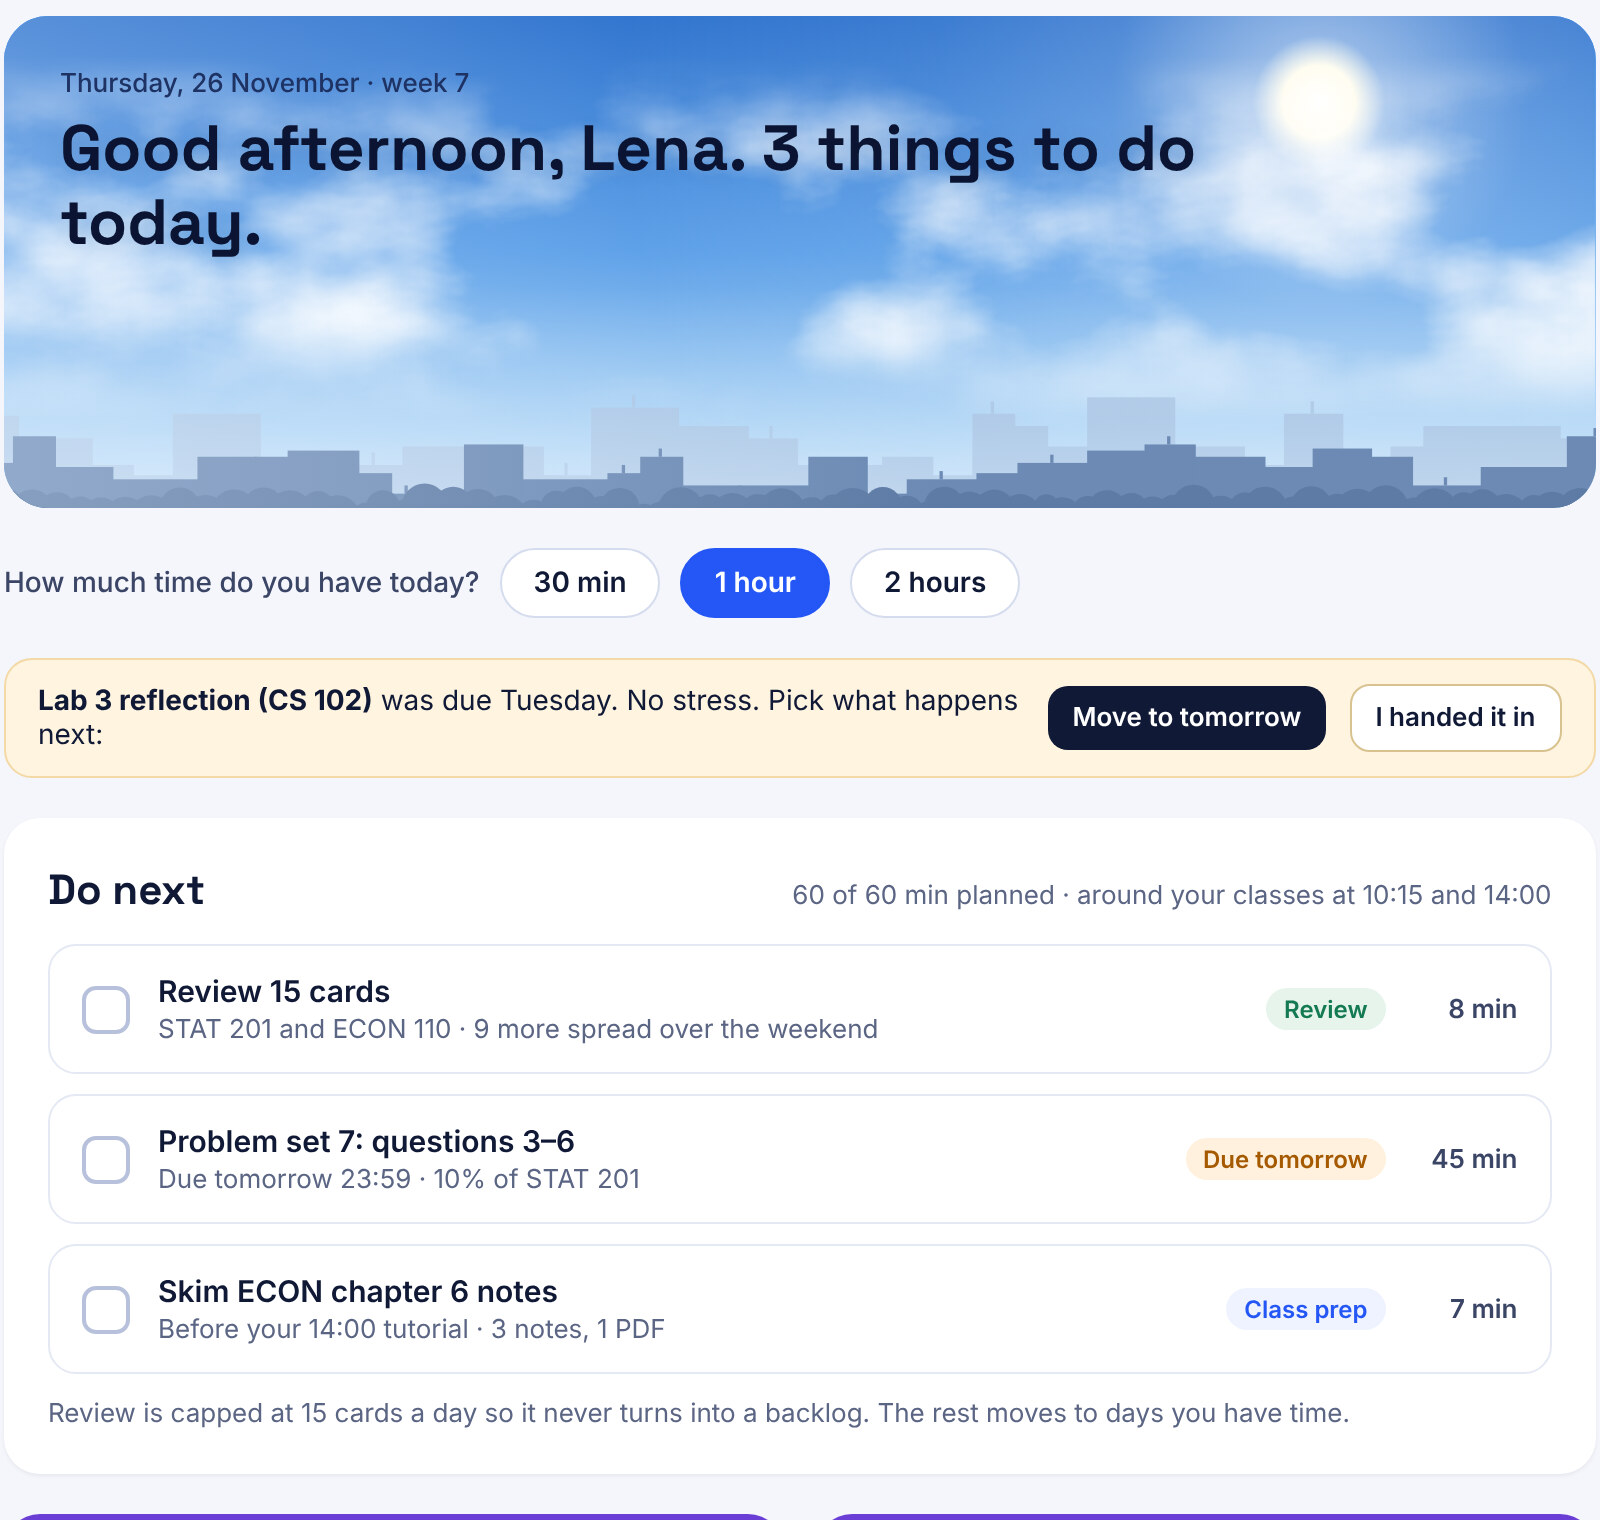
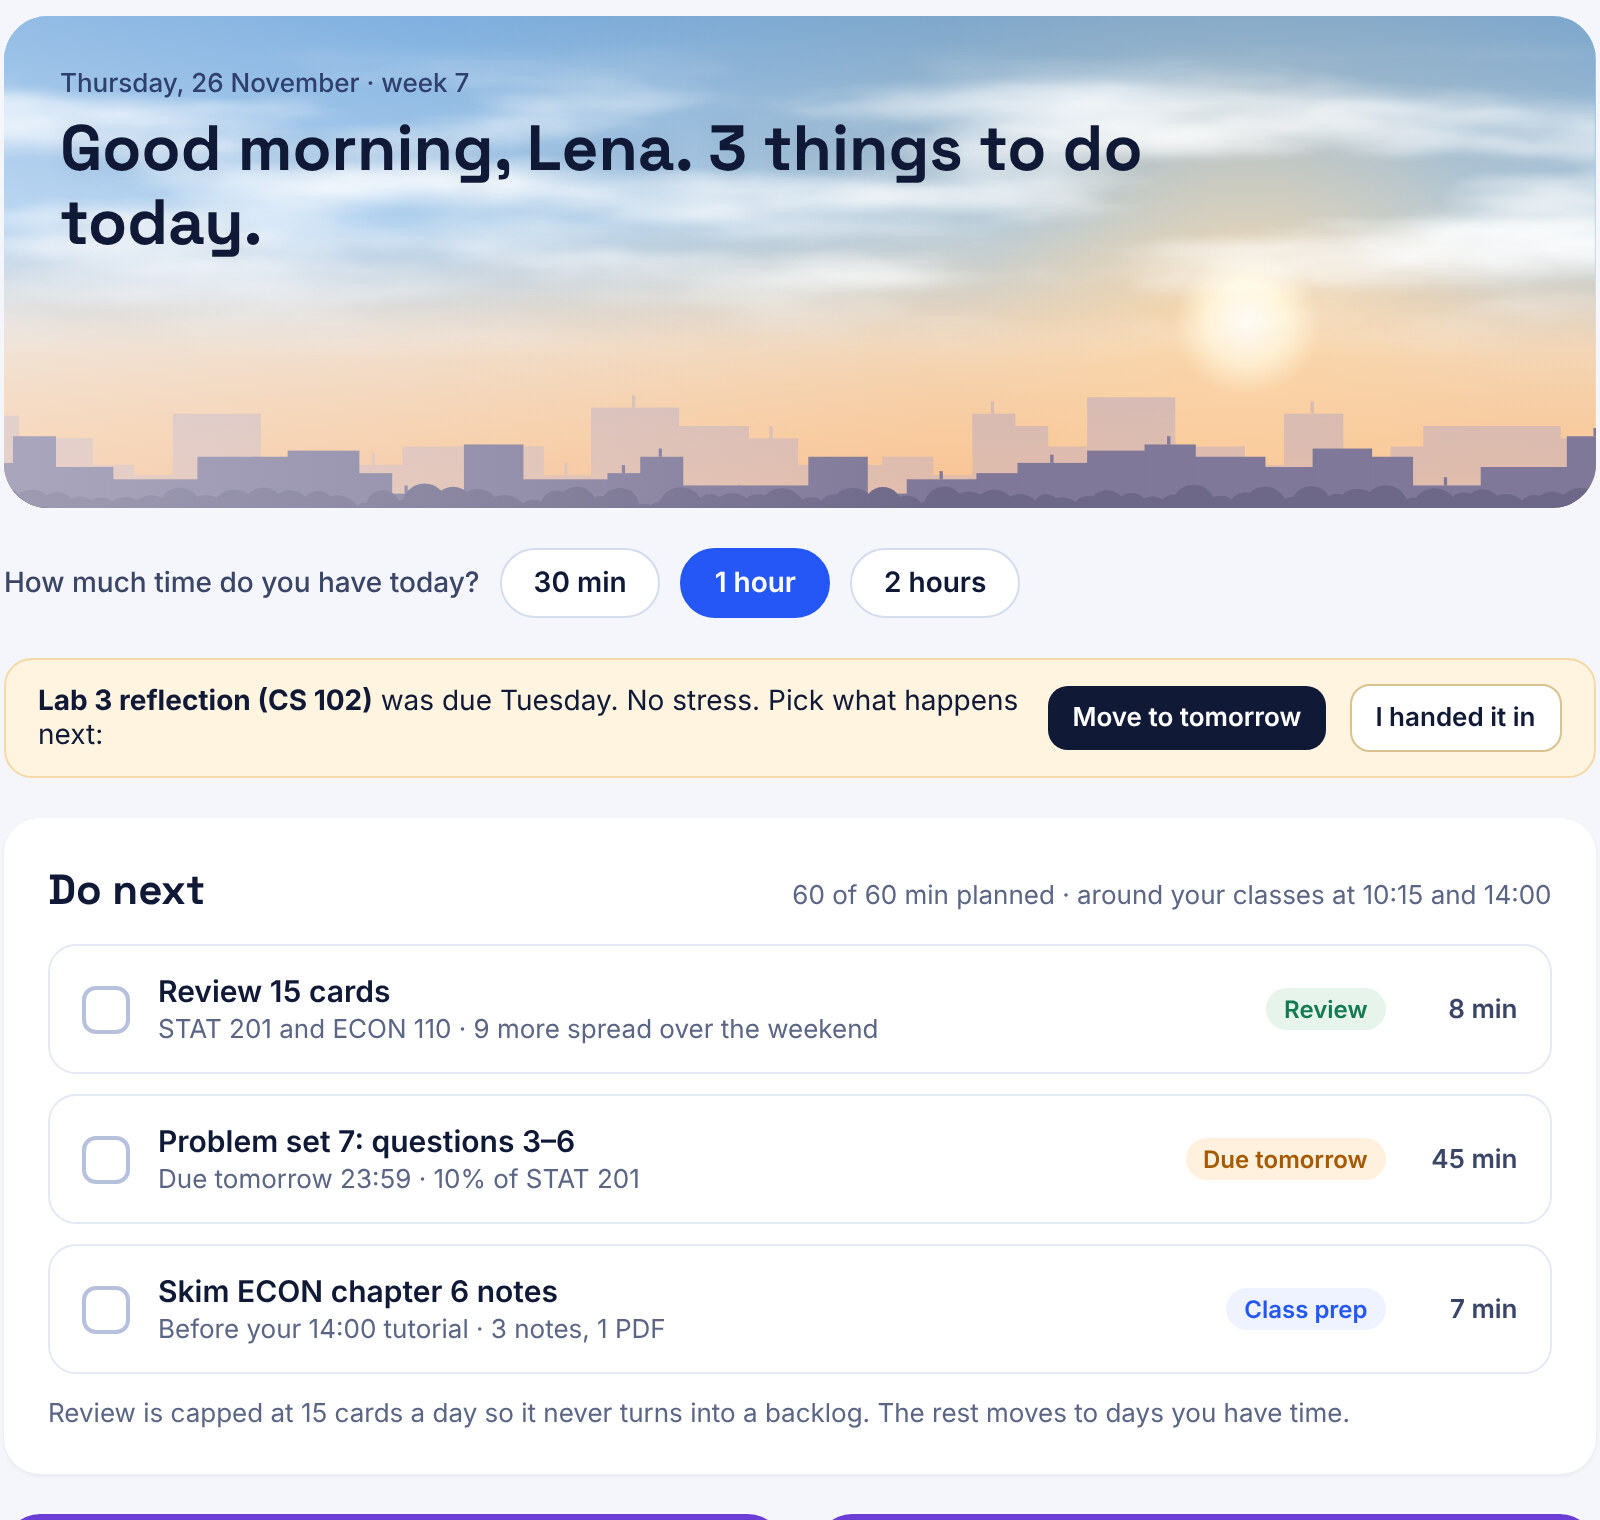
Homepage preview: morning version of the Study Campus picture (Good morning, Lena)
Claude-Session: https://claude.ai/code/session_014qn9WojxjeDajjqFrBsPaW

Changed region(s): [[0.0, 0.0, 1.0, 0.3401]]

diff --git a/index.html b/index.html
@@ -392,16 +392,16 @@ footer{background:var(--ink);padding:4.5rem 6% 2.5rem}
       <div class="ws-frame">
         <div class="ws-bar" aria-hidden="true"><i></i><i></i><i></i><span>uniskilled.com/studyhq</span></div>
         <picture>
-          <source media="(max-width: 720px)" srcset="media/workspace/dashboard-focus.webp?v=3" type="image/webp">
-          <source media="(max-width: 720px)" srcset="media/workspace/dashboard-focus.jpg?v=3">
-          <source srcset="media/workspace/dashboard-main.webp?v=3" type="image/webp">
-          <img data-i18n-attr="alt:index.ws.img-alt" src="media/workspace/dashboard-main.jpg?v=3" width="1440" height="968" loading="lazy" decoding="async" alt="Study Campus with sample data: a greeting, a plan for today that fits one hour, exam countdowns, today's classes and busy weeks ahead">
+          <source media="(max-width: 720px)" srcset="media/workspace/dashboard-focus.webp?v=4" type="image/webp">
+          <source media="(max-width: 720px)" srcset="media/workspace/dashboard-focus.jpg?v=4">
+          <source srcset="media/workspace/dashboard-main.webp?v=4" type="image/webp">
+          <img data-i18n-attr="alt:index.ws.img-alt" src="media/workspace/dashboard-main.jpg?v=4" width="1440" height="968" loading="lazy" decoding="async" alt="Study Campus with sample data: a morning greeting, a plan for today that fits one hour, exam countdowns, today's classes and busy weeks ahead">
         </picture>
       </div>
       <div class="ws-float">
         <picture>
-          <source srcset="media/workspace/dashboard-help.webp?v=3" type="image/webp">
-          <img data-i18n-attr="alt:index.ws.help-alt" src="media/workspace/dashboard-help.jpg?v=3" width="800" height="469" loading="lazy" decoding="async" alt="Exam help with sample data: ask for a tutor for an upcoming exam, or book a student who passed the course">
+          <source srcset="media/workspace/dashboard-help.webp?v=4" type="image/webp">
+          <img data-i18n-attr="alt:index.ws.help-alt" src="media/workspace/dashboard-help.jpg?v=4" width="800" height="469" loading="lazy" decoding="async" alt="Exam help with sample data: ask for a tutor for an upcoming exam, or book a student who passed the course">
         </picture>
       </div>
       <figcaption data-i18n="index.ws.caption">Product preview with sample data. The student, courses and tutors shown are examples.</figcaption>
